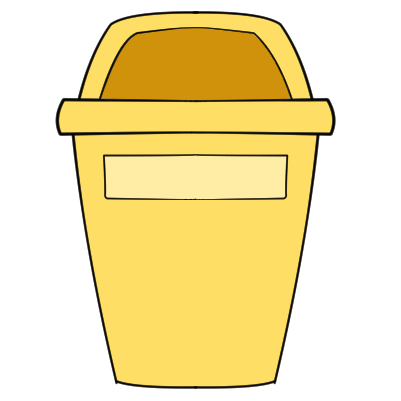
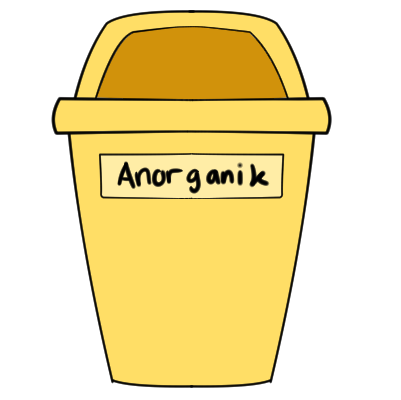
complete game semua, tinggal masukin achievement

Changed region(s): [[0.1197, 0.0, 0.8379, 0.99], [0.3292, 0.96, 0.389, 0.99]]

diff --git a/src/main/java/com/wi3uplus2/cleanup/EncyclopediaContent.java b/src/main/java/com/wi3uplus2/cleanup/EncyclopediaContent.java
@@ -2,20 +2,14 @@ package com.wi3uplus2.cleanup;
 
 public class EncyclopediaContent {
     public static final String[] TITLES = {
-        "Introduction",
-        "How to Play",
-        "Game Mechanics",
-        "Scoring System",
-        "Power-ups",
-        "Levels and Challenges",
-        "Tips and Tricks",
-        "Frequently Asked Questions"
+        "Sampah Organik",
+        "Sampah Anorganik",
+        "Sampah B3",
     };
 
     public static final String[] IMAGES = {
-            "/com/wi3uplus2/cleanup/assets/images/object/B3_poison.png",
-            "/com/wi3uplus2/cleanup/assets/images/object/B3_brokenGlass.png",
-            "/com/wi3uplus2/cleanup/assets/images/object/B3_brokenLamp.png",
+            "/com/wi3uplus2/cleanup/assets/images/object/organik_apple.png",
+            "/com/wi3uplus2/cleanup/assets/images/object/anorganik_plasticBottle.png",
             "/com/wi3uplus2/cleanup/assets/images/object/B3_Battery.png",
     };
 
@@ -23,12 +17,11 @@ public class EncyclopediaContent {
         "Sampah organik berasal dari makhluk hidup, seperti sisa makanan, daun kering, atau kulit buah." +
                 "Jenis ini mudah terurai secara alami oleh mikroorganisme dan bisa dijadikan kompos." +
                 "Jika dikelola dengan baik, sampah organik justru bermanfaat untuk menyuburkan tanah dan mengurangi limbah.",
-        "To play, use the arrow keys to move your character and collect trash. Avoid obstacles and try to collect as much trash as possible within the time limit.",
-        "The game features various mechanics such as collecting items, avoiding obstacles, and using power-ups to enhance your gameplay experience.",
-        "You earn points by collecting trash. The more trash you collect, the higher your score will be.",
-        "Power-ups can be found throughout the game. They provide temporary boosts that can help you collect more trash or avoid obstacles.",
-        "The game consists of multiple levels with increasing difficulty. Each level presents new challenges and requires different strategies to succeed.",
-        "Here are some tips: always keep an eye on the timer, prioritize collecting high-value trash, and use power-ups wisely.",
-        "If you have any questions, check our FAQ section or contact support for assistance."
+        "Sampah Anorganik Merupakan sampah dari bahan buatan manusia, seperti plastik, kaleng, kaca, dan styrofoam." +
+                "Sampah ini sulit terurai dan bisa bertahan ratusan tahun di alam." +
+                "Namun, jika dipilah dengan benar, anorganik bisa didaur ulang menjadi barang berguna dan bernilai.",
+        "Sampah B3 mencakup limbah beracun seperti baterai, cat bekas, obat-obatan, dan limbah kimia." +
+                "Bersifat merusak lingkungan dan membahayakan kesehatan manusia serta hewan." +
+                "Penanganannya harus khusus dan hati-hati agar tidak mencemari air, tanah, atau udara.",
     };
 }

diff --git a/src/main/java/com/wi3uplus2/cleanup/SortTheTrash.java b/src/main/java/com/wi3uplus2/cleanup/SortTheTrash.java
@@ -115,15 +115,8 @@ public class SortTheTrash extends Game {
             double x = bins[i][0];
             double width = bins[i][1];
             int typeIdx = (int) bins[i][2];
-            String label = types[typeIdx];
 
             gc.drawImage(binImage[i],x - 100, canvasY - 200, width, 150);
-
-            gc.setFill(Color.BLACK);
-//            gc.fillRect(x - 100, canvasY - 200, width, 150);
-            gc.setFont(Font.font(18));
-            gc.setTextAlign(javafx.scene.text.TextAlignment.CENTER);
-            gc.fillText(label.toUpperCase(), x - 25, canvasY - 127);
         }
 
         // Gambar sampah

diff --git a/src/main/java/com/wi3uplus2/cleanup/TransitionScreenController.java b/src/main/java/com/wi3uplus2/cleanup/TransitionScreenController.java
@@ -92,7 +92,7 @@ public class TransitionScreenController {
             try {
                 // Set the new root for the current scene
                 Scene scene = lives.getScene();
-                scene.setRoot(minigames[3]);
+                scene.setRoot(minigames[GameState.nextGame]);
             } catch (Exception e) {
                 System.out.println(e + " " + GameState.nextGame);
             }
